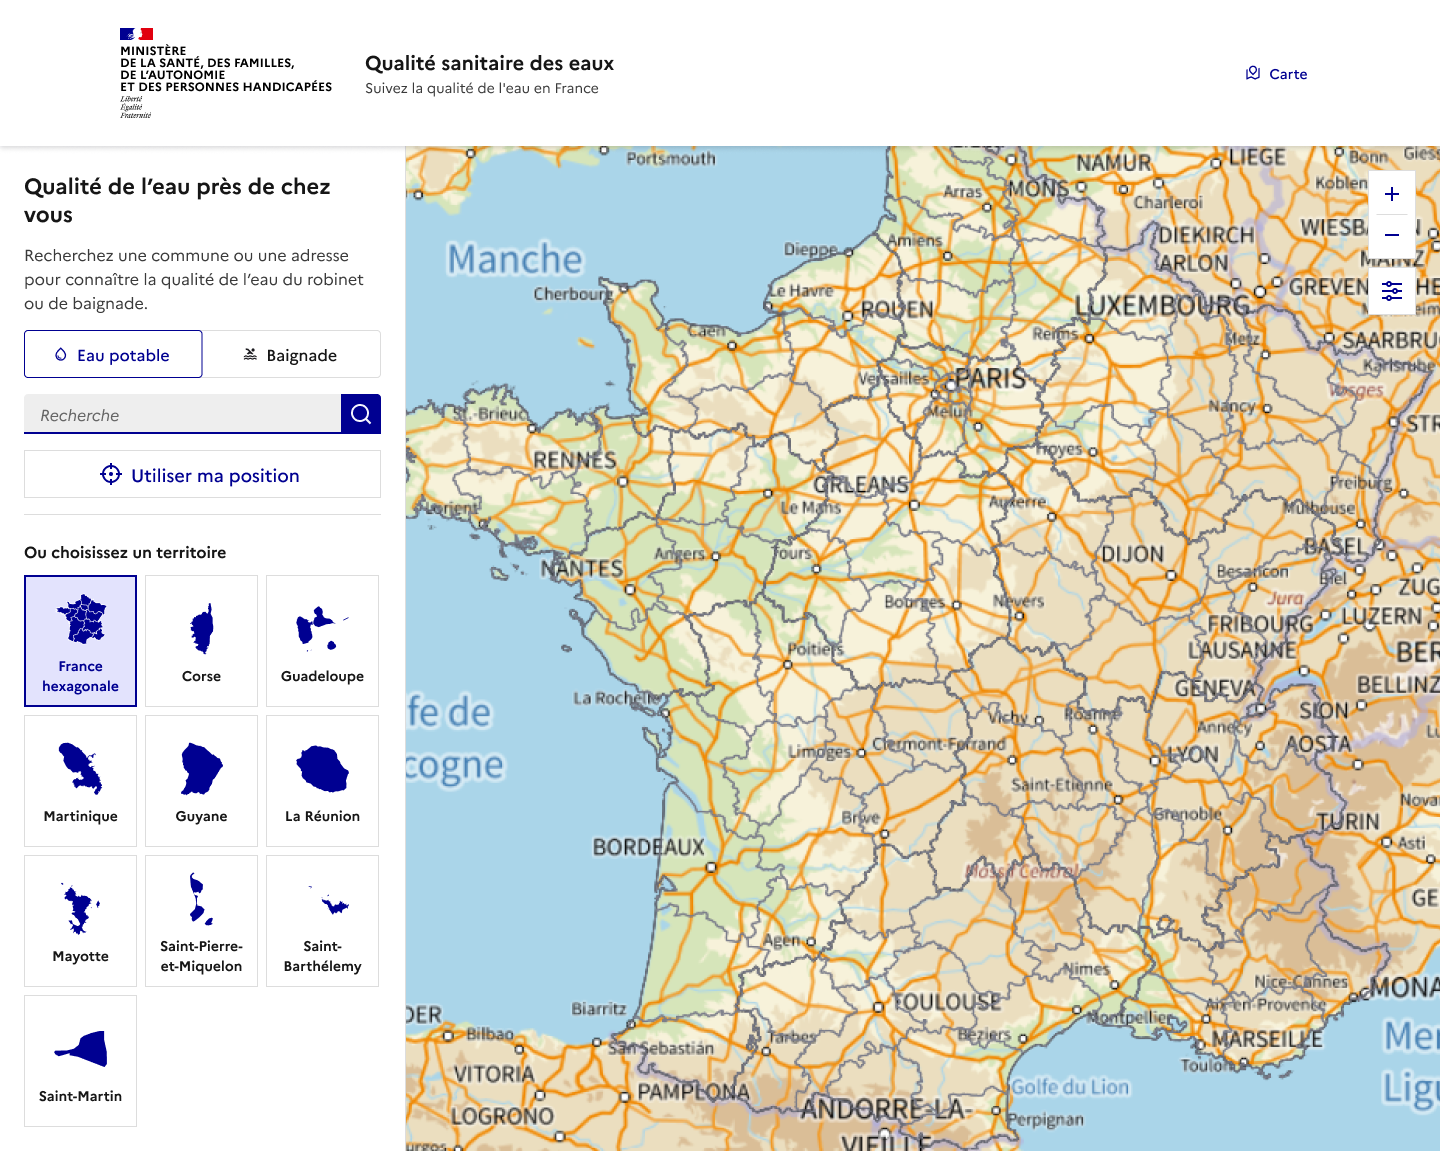
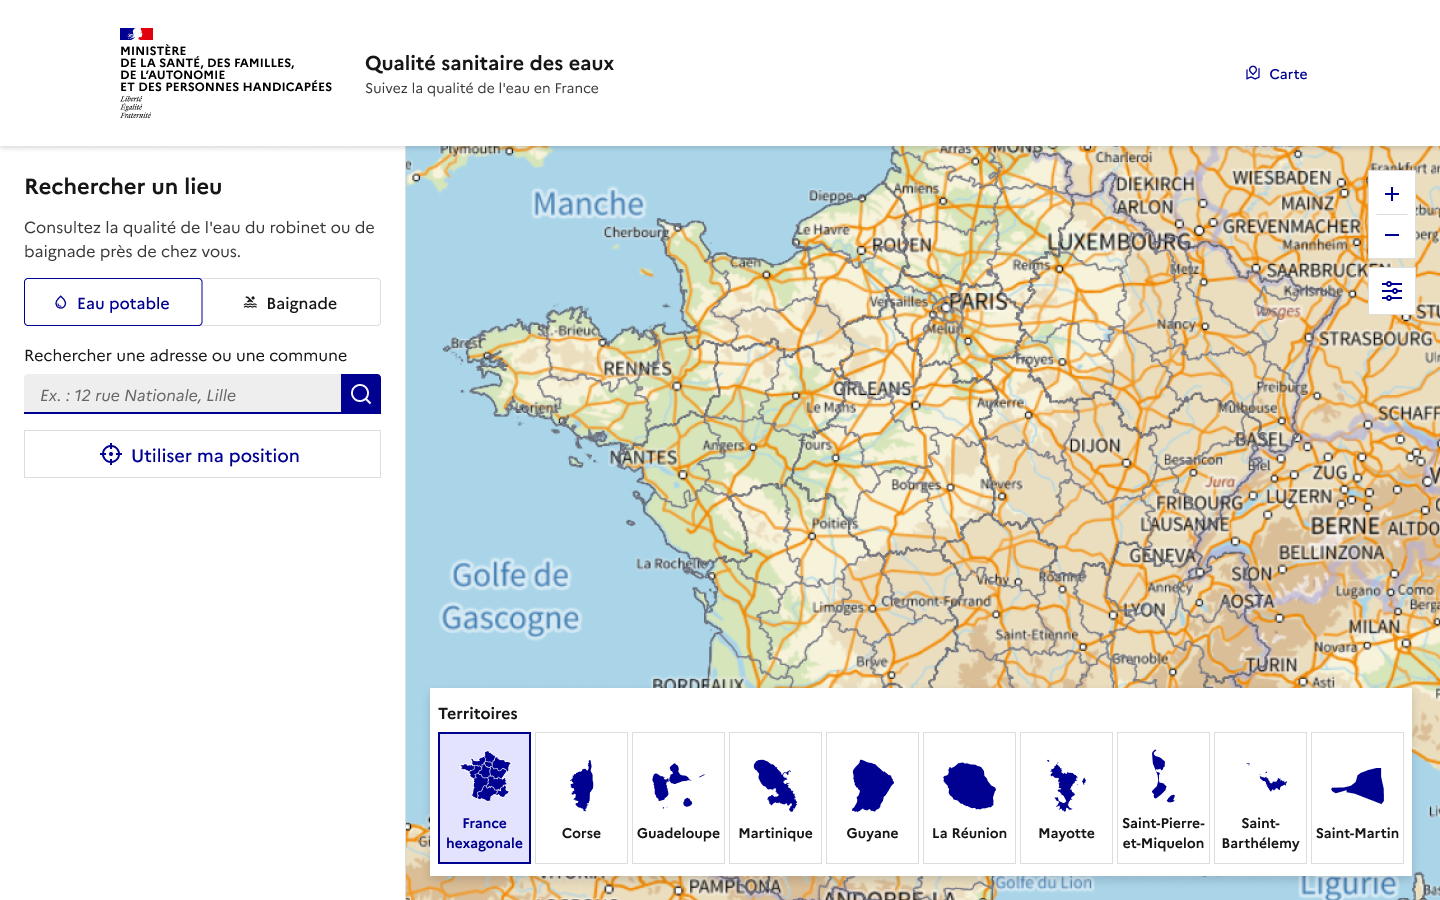
Carte desktop : nouvelle maquette, territoires en bande sur la carte ; exemple d'adresse dans la recherche
Claude-Session: https://claude.ai/code/session_01YabeyobbgbaYWgxz9KDUDT

diff --git a/src/pages/Carte.tsx b/src/pages/Carte.tsx
@@ -11,7 +11,7 @@ import { BasculeTypeEau } from "../components/BasculeTypeEau";
 import { RechercheCarte } from "../components/RechercheCarte";
 import { ZonesSecteurs } from "../components/ZonesSecteurs";
 import { LegendeZone } from "../components/LegendeZone";
-import { GrilleTerritoires, SelecteurTerritoires } from "../components/SelecteurTerritoires";
+import { BandeTerritoires, SelecteurTerritoires } from "../components/SelecteurTerritoires";
 import { useDesktop } from "../lib/useMediaQuery";
 import { TOUS_LES_SECTEURS } from "../lib/secteurs";
 import { VUE_FRANCE } from "../lib/carte";
@@ -67,7 +67,7 @@ export function Carte() {
     };
   }, [carte]);
 
-  // Desktop : la grille des territoires est toujours visible dans le panneau, le choix recentre directement.
+  // Desktop : les territoires sont dans une bande posée en bas de la carte, le choix recentre directement.
   const desktop = useDesktop();
   const recentrer = (id: IdTerritoire) => {
     setTerritoire(id);
@@ -108,23 +108,13 @@ export function Carte() {
       baignadeBientot
     );
 
-  // Desktop (maquette desktop) : sans le message d'aide, absent de la maquette (cf. NOTES.md).
+  // Desktop (maquette desktop « bande sur la carte ») : sans le message d'aide, absent de la maquette (cf. NOTES.md).
   const panneauDesktop = (
     <>
-      <h1 className={fr.cx("fr-h4", "fr-mb-2w")}>Qualité de l’eau près de chez vous</h1>
-      <p className={fr.cx("fr-mb-3w")}>
-        Recherchez une commune ou une adresse pour connaître la qualité de l’eau du robinet ou de baignade.
-      </p>
-      <div className={fr.cx("fr-mb-3w")}>{bascule}</div>
-      {typeEau === "potable" ? <RechercheCarte onLocalisation={onLocalisation} /> : baignadeBientot}
-      <hr className={fr.cx("fr-mt-0", "fr-pb-3w")} />
-      <h2 className={fr.cx("fr-text--md", "fr-text--bold", "fr-mb-2w")}>Ou choisissez un territoire</h2>
-      <GrilleTerritoires
-        actif={territoire}
-        onActif={recentrer}
-        onChoix={recentrer}
-        className="selecteur-territoires__groupe--panneau"
-      />
+      <h1 className={fr.cx("fr-h5", "fr-mb-2w")}>Rechercher un lieu</h1>
+      <p className={fr.cx("fr-mb-2w")}>Consultez la qualité de l’eau du robinet ou de baignade près de chez vous.</p>
+      <div className={fr.cx("fr-mb-2w")}>{bascule}</div>
+      {typeEau === "potable" ? <RechercheCarte desktop onLocalisation={onLocalisation} /> : baignadeBientot}
     </>
   );
 
@@ -137,7 +127,12 @@ export function Carte() {
         carte={
           <CarteIgn
             onPrete={setCarte}
-            surCarte={secteursVisibles && <LegendeZone aGauche />}
+            surCarte={
+              <>
+                {secteursVisibles && <LegendeZone aGauche />}
+                {desktop && <BandeTerritoires valeur={territoire} onChoix={recentrer} />}
+              </>
+            }
             controlesGauche={
               // Desktop : pas de bouton Territoires, la grille est dans le panneau.
               !desktop && (

diff --git a/src/components/RechercheCarte.tsx b/src/components/RechercheCarte.tsx
@@ -10,12 +10,14 @@ import { communeContenant, COMMUNES_AVEC_DONNEES, NOMS_COMMUNES_AVEC_DONNEES, ro
 type Props = {
   /** Appelé avec la position de l'utilisateur, pour centrer la carte et poser un marqueur. */
   onLocalisation: (lat: number, lon: number) => void;
+  /** Desktop (maquette desktop) : libellé visible, exemple d'adresse et bouton de taille LG. */
+  desktop?: boolean;
 };
 
 type Message = { severite: "info" | "error"; texte: string };
 
 /** Panneau de l'écran carte en eau potable : recherche de commune et géolocalisation. */
-export function RechercheCarte({ onLocalisation }: Props) {
+export function RechercheCarte({ onLocalisation, desktop }: Props) {
   const navigate = useNavigate();
   const [messageRecherche, setMessageRecherche] = useState<string>();
   const [messagePosition, setMessagePosition] = useState<Message>();
@@ -62,15 +64,16 @@ export function RechercheCarte({ onLocalisation }: Props) {
   return (
     <>
       <ChampSuggestions
-        label="Rechercher une commune"
-        masquerLibelle
-        placeholder="Recherche"
+        label={desktop ? "Rechercher une adresse ou une commune" : "Rechercher une commune"}
+        masquerLibelle={!desktop}
+        placeholder={desktop ? "Ex. : 12 rue Nationale, Lille" : "Recherche"}
         chercher={chercherCommunes}
         onSelection={onSelection}
         onSaisie={() => setMessageRecherche(undefined)}
         message={messageRecherche ? { etat: "info", texte: messageRecherche } : undefined}
       />
       <ButtonsGroup
+        buttonsSize={desktop ? "large" : "medium"}
         buttons={[
           {
             children: localisationEnCours ? "Localisation en cours…" : "Utiliser ma position",

diff --git a/src/components/SelecteurTerritoires.tsx b/src/components/SelecteurTerritoires.tsx
@@ -111,3 +111,31 @@ export function SelecteurTerritoires({ valeur, onChoix, onFermer }: Props) {
     </section>
   );
 }
+
+type PropsBande = {
+  /** Territoire affiché sur la carte. */
+  valeur: IdTerritoire;
+  /** Choix d'un territoire (clic, flèches, Entrée / Espace) : la carte se recentre directement. */
+  onChoix: (id: IdTerritoire) => void;
+};
+
+/**
+ * Territoires en desktop (maquette « bande sur la carte ») : bande blanche posée en bas de la carte,
+ * avec les 10 vignettes sur une ligne. Même groupe de boutons radio que le sélecteur mobile.
+ */
+export function BandeTerritoires({ valeur, onChoix }: PropsBande) {
+  const id = useId();
+  return (
+    <section className="bande-territoires" aria-labelledby={`${id}-titre`}>
+      <h2 id={`${id}-titre`} className={fr.cx("fr-text--md", "fr-text--bold", "fr-mb-1w")}>
+        Territoires
+      </h2>
+      <GrilleTerritoires
+        actif={valeur}
+        onActif={onChoix}
+        onChoix={onChoix}
+        className="selecteur-territoires__groupe--bande"
+      />
+    </section>
+  );
+}

diff --git a/src/styles/app.css b/src/styles/app.css
@@ -883,9 +883,29 @@ html.cadre-mobile body {
   }
 }
 
-/* Grille des territoires intégrée au panneau (desktop) : sans les marges du sélecteur mobile. */
-.selecteur-territoires__groupe--panneau {
+/* Territoires en desktop : bande blanche posée en bas de la carte, 10 vignettes sur une ligne
+ * (maquette « bande sur la carte », cf. NOTES.md). La mention © IGN reste visible en dessous. */
+.bande-territoires {
+  position: absolute;
+  z-index: 1000; /* au-dessus des couches Leaflet */
+  right: 1.5rem;
+  bottom: 1.5rem;
+  left: 1.5rem;
+  padding: 0.5rem;
+  background-color: var(--background-default-grey);
+  box-shadow: var(--raised-shadow);
+}
+
+.selecteur-territoires__groupe--bande {
+  grid-template-columns: repeat(10, minmax(0, 1fr));
+  gap: 0.25rem;
   padding: 0;
+}
+
+/* Desktop : la légende des zones passe en haut à gauche, la bande occupe le bas de la carte. */
+.ecran-carte--plein-ecran .carte-ign__legende--gauche {
+  top: 1rem;
+  bottom: auto;
 }
 
 /* ---------- Fiche du secteur desktop (mode Desktop, à partir de lg) ---------- */

diff --git a/src/components/RechercheLieu.tsx b/src/components/RechercheLieu.tsx
@@ -61,7 +61,8 @@ export function RechercheLieu() {
         // Nouveau champ (saisie vidée) à chaque changement de type d'eau.
         key={typeEau}
         label={champ.label}
-        placeholder={champ.placeholder}
+        // Desktop, eau potable : exemple d'adresse de la maquette desktop.
+        placeholder={desktop && typeEau === "potable" ? "Ex. : 12 rue Nationale, Lille" : champ.placeholder}
         chercher={champ.chercher}
         onSelection={onSelection}
         onSaisie={() => setMessage(undefined)}

diff --git a/NOTES.md b/NOTES.md
@@ -127,13 +127,21 @@ Maquette `maquettes/desktop-accueil.png` (Figma 5541:95008). Elle ne s'applique 
 
 ## Écarts avec les maquettes — Carte desktop (v2)
 
-Maquette `maquettes/desktop-carte.png` (Figma 5551:93049), en mode Desktop à partir de lg seulement. Le mobile et le mode Mobile sur ordinateur ne changent pas (vérifié au pixel près).
+Maquette `maquettes/desktop-carte.png` (Figma 5551:92914, « Territoires visibles · V1 bande sur la carte »), qui remplace la première maquette (5551:93049) à la demande de l'utilisateur. Elle ne s'applique qu'en mode Desktop, à partir de lg. Le mobile et le mode Mobile sur ordinateur ne changent pas (vérifié au pixel près sur l'accueil et la carte).
 - **Mise en page** : l'écran occupe toute la hauteur sous le header, dont la hauteur est mesurée. Le pied de page vient après, hors de la vue. Panneau de 405 px à gauche (marges de 24 px, défilement interne) et carte sur le reste à droite (`EcranCarte` avec `pleinEcran`).
-- **Panneau** : h1 « Qualité de l'eau près de chez vous » (taille `fr-h4`), paragraphe d'introduction, bascule Eau potable / Baignade, recherche et « Utiliser ma position » existants (même comportement qu'en mobile), séparateur, h2 « Ou choisissez un territoire », puis la grille des territoires toujours visible. Sur mobile, le h1 reste masqué (« Carte de la qualité de l'eau »).
-- **Grille des territoires** : le même groupe de boutons radio que le sélecteur mobile (composant `GrilleTerritoires`), sans en-tête ni ✕. Un clic, ou Entrée / Espace, recentre la carte. **Différence avec le mobile** : les flèches recentrent aussi directement, comme un groupe de boutons radio natif, puisqu'il n'y a rien à fermer. Le nom du territoire sélectionné est en bleu France, comme sur les deux maquettes (aussi corrigé dans le sélecteur mobile).
-- **Carte** : zoom et fonds de carte en haut à droite. Le panneau des fonds s'ouvre alors vers le bas. Pas de bouton Territoires. Zones, marqueurs, légende et volets (à droite) ne changent pas.
-- **Message d'aide retiré en desktop** : « Zoomez sur une ville… » / « Cliquez sur un secteur… » (`fr-message--info`) n'est pas sur la maquette desktop. Il reste sur mobile.
-- **Champs** : la recherche et les boutons gardent la taille DSFR par défaut (40 px), un peu plus hauts sur la maquette.
+- **Panneau**, avec 16 px entre les éléments :
+  - h1 « Rechercher un lieu » (taille `fr-h5`) ;
+  - « Consultez la qualité de l'eau du robinet ou de baignade près de chez vous. » ;
+  - bascule Eau potable / Baignade ;
+  - recherche avec libellé visible « Rechercher une adresse ou une commune » et exemple « Ex. : 12 rue Nationale, Lille » ;
+  - « Utiliser ma position » en taille LG.
+  Même comportement qu'en mobile. Sur mobile, le h1 reste masqué (« Carte de la qualité de l'eau »).
+- **Territoires** : bande blanche avec ombre (`--raised-shadow`) posée en bas de la carte, à 24 px des bords, titre « Territoires » et les 10 vignettes sur une ligne (`BandeTerritoires`). C'est le même groupe de boutons radio que le sélecteur mobile (`GrilleTerritoires`). Un clic, les flèches, Entrée ou Espace recentrent directement la carte. Le nom du territoire sélectionné est en bleu France. La mention « © IGN / Géoplateforme » reste visible sous la bande.
+- **Carte** : zoom et fonds de carte en haut à droite. Le panneau des fonds s'ouvre alors vers le bas. Pas de bouton Territoires. La légende des zones passe en haut à gauche, la bande occupant le bas. Zones, marqueurs et volets (à droite) ne changent pas.
+- **Header** : sans l'accès rapide « Carte » présent sur la maquette (retiré partout en desktop, à la demande de l'utilisateur).
+- **Message d'aide retiré en desktop** : « Zoomez sur une ville… » / « Cliquez sur un secteur… » (`fr-message--info`) n'est pas sur la maquette. Il reste sur mobile.
+- **Hauteurs** : la bascule DSFR fait 40 px (48 sur la maquette). Le champ et le bouton sont donc placés 8 px plus haut que sur la maquette.
+- **Accueil desktop** : le champ de recherche reprend l'exemple « Ex. : 12 rue Nationale, Lille » en eau potable (à la demande de l'utilisateur). En baignade, l'exemple reste « Plage, lac, rivière, commune… ».
 
 ## Écarts avec les maquettes — Fiche du secteur desktop (v2)
 
